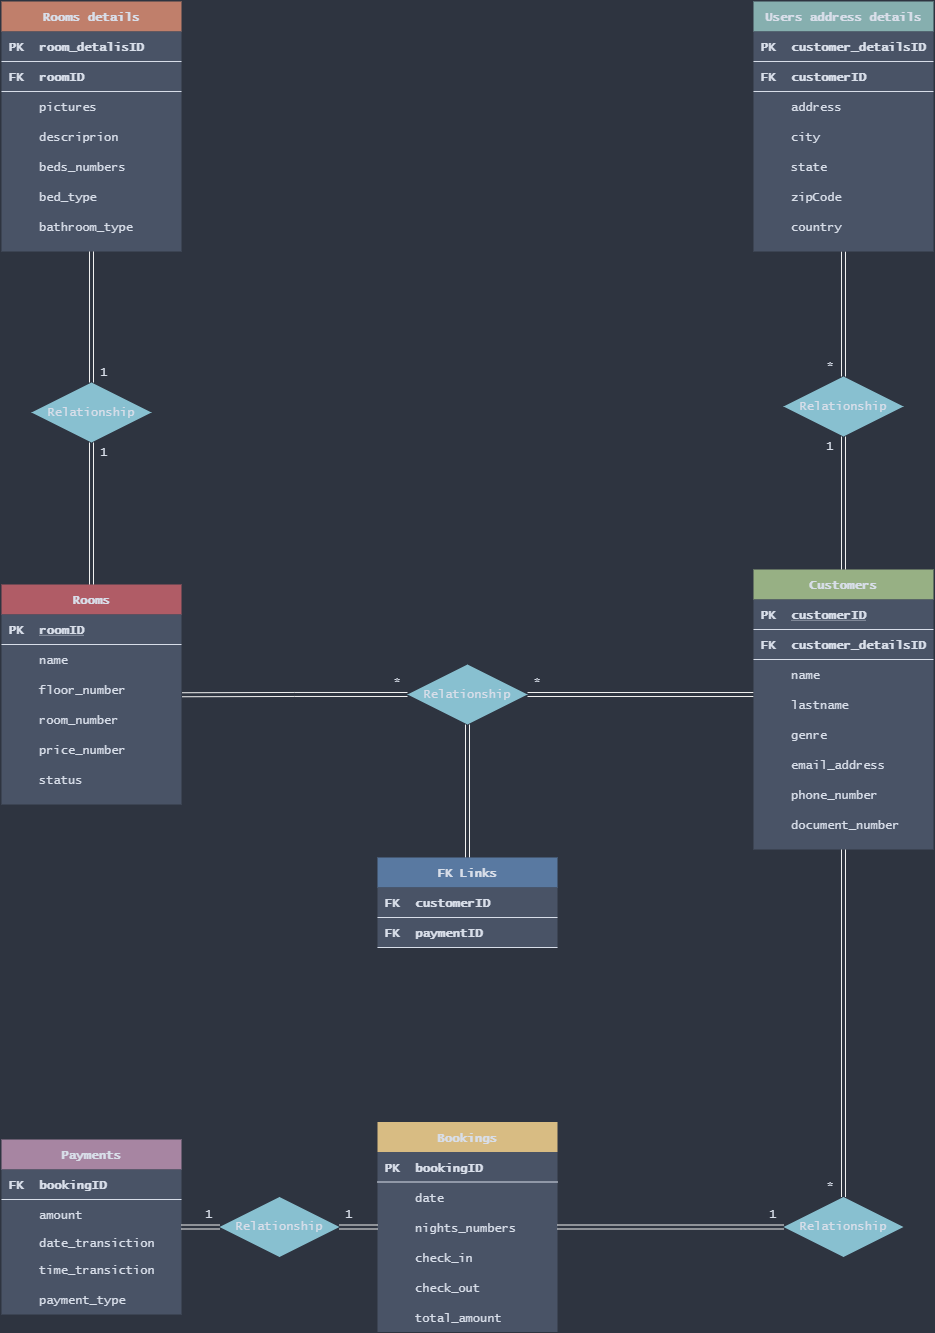
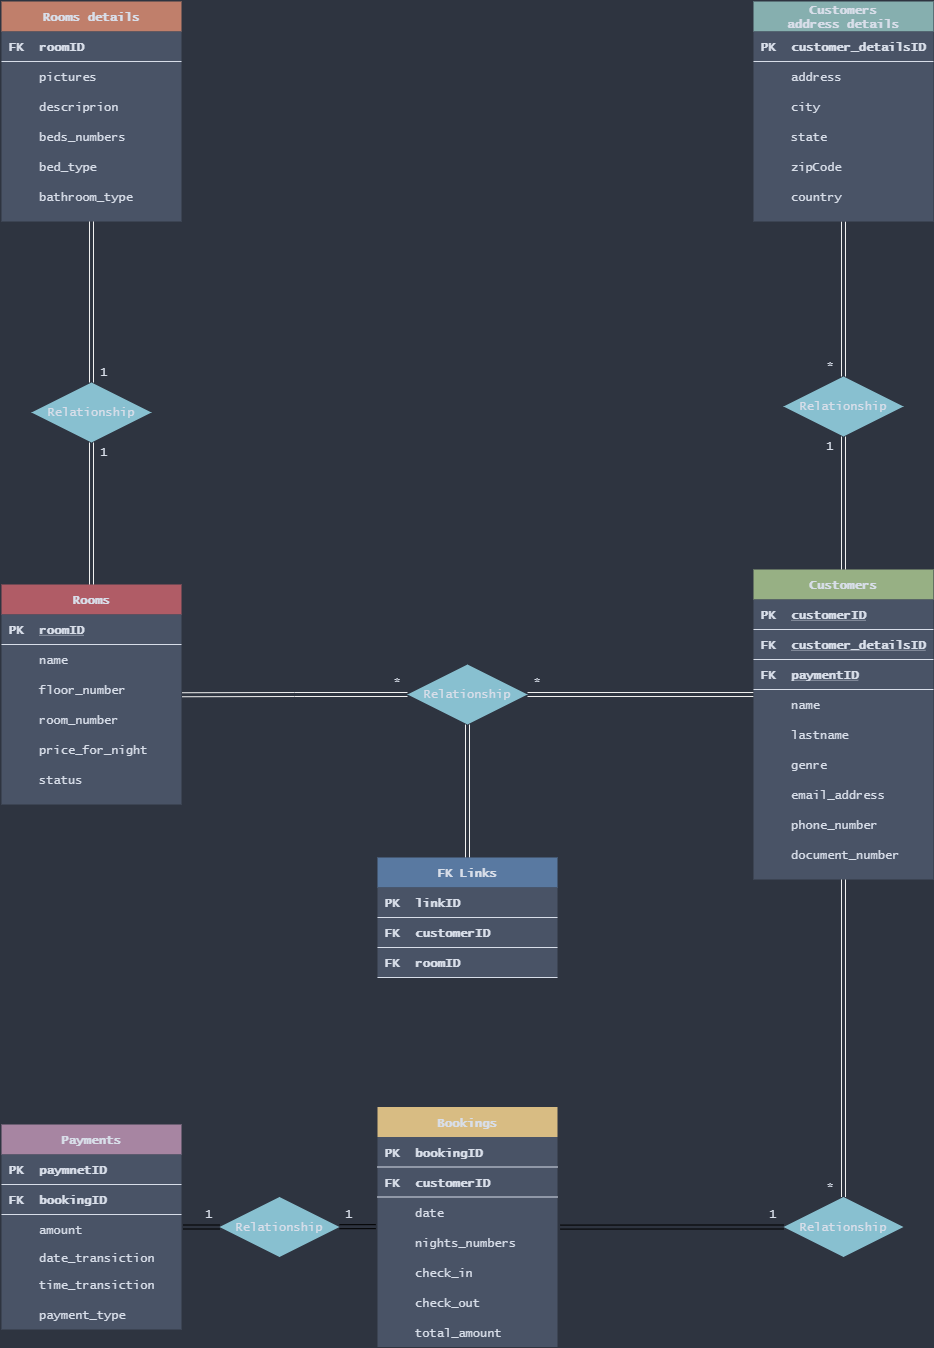
Fixed again

diff --git a/structure_db_hotel.md b/structure_db_hotel.md
@@ -1,40 +1,48 @@
 # database name: Hotel Little Italy
+
 # table name: Rooms
-- id PRIMARYKEY
+- roomID PRIMARYKEY
 - name string
-- pictures string VARCHAR (200)
-- descriprion string TEXT
-- floorNumber TINYINT
-- roomNumber number TINYINT
-- bedsNumber number TINYINT
-- bedType string VARCHAR (30)
-- bathroomType string VARCHAR (30)
-- priceNumber FLOAT (5,2)
+- floor_number TINYINT
+- room_number number TINYINT
+- price_for_night FLOAT (5,2)
 - status string VARCHAR (20)
 
-# table user
+# table name: Rooms details
+- pictures string VARCHAR (200)
+- descriprion string TEXT
+- beds_number number TINYINT
+- bed_type string VARCHAR (30)
+- bathroom_type string VARCHAR (30)
+
+# table customers
 - customerID PRIMARYKEY
 - name string VARCHAR (50)
 - lastname string VARCHAR (50)
 - genre string VARCHAR (10)
+- email_address string VARCHAR (30)
+- phone_number number TINYINT
+- document_number VARCHAR (30)
+
+# table Customers address details
+- customer_detailsID PRIMARYKEY
 - address string VARCHAR (50)
 - city string VARCHAR (20)
 - state string VARCHAR (20)
 - zipCode number TINYINT
 - country string VARCHAR (20)
-- emailAddress string VARCHAR (30)
-- phoneNumber number TINYINT
-- documentNumber VARCHAR (30)
 
 # booking
-- booking ID PRIMARYKEY
+- bookingID PRIMARYKEY
 - date DATE
 - nightsNumbers number TINYINT
 - checkIn TIME 
 - checkOut TIME
-- paymentType string VARCHAR (20)
-- tltAmount number FLOAT (5,2)
+- total_Amount number FLOAT (5,2)
 
-# extra
-- 
-
+# Payments
+- PaymentID
+- amount number FLOAT (5,2)
+- date_transiction DATE
+- time_transiction TIME
+- payment_type VARCHAR (20)
